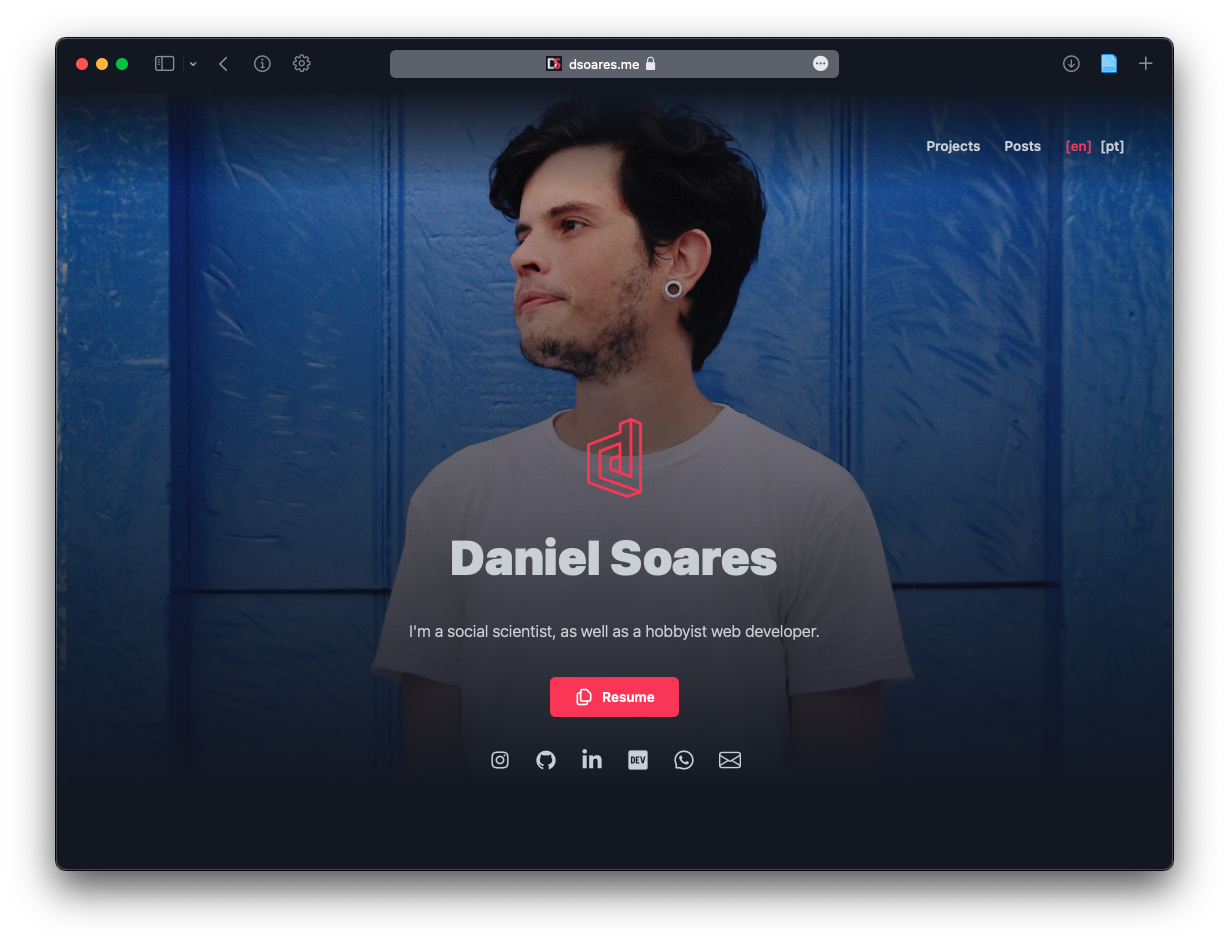
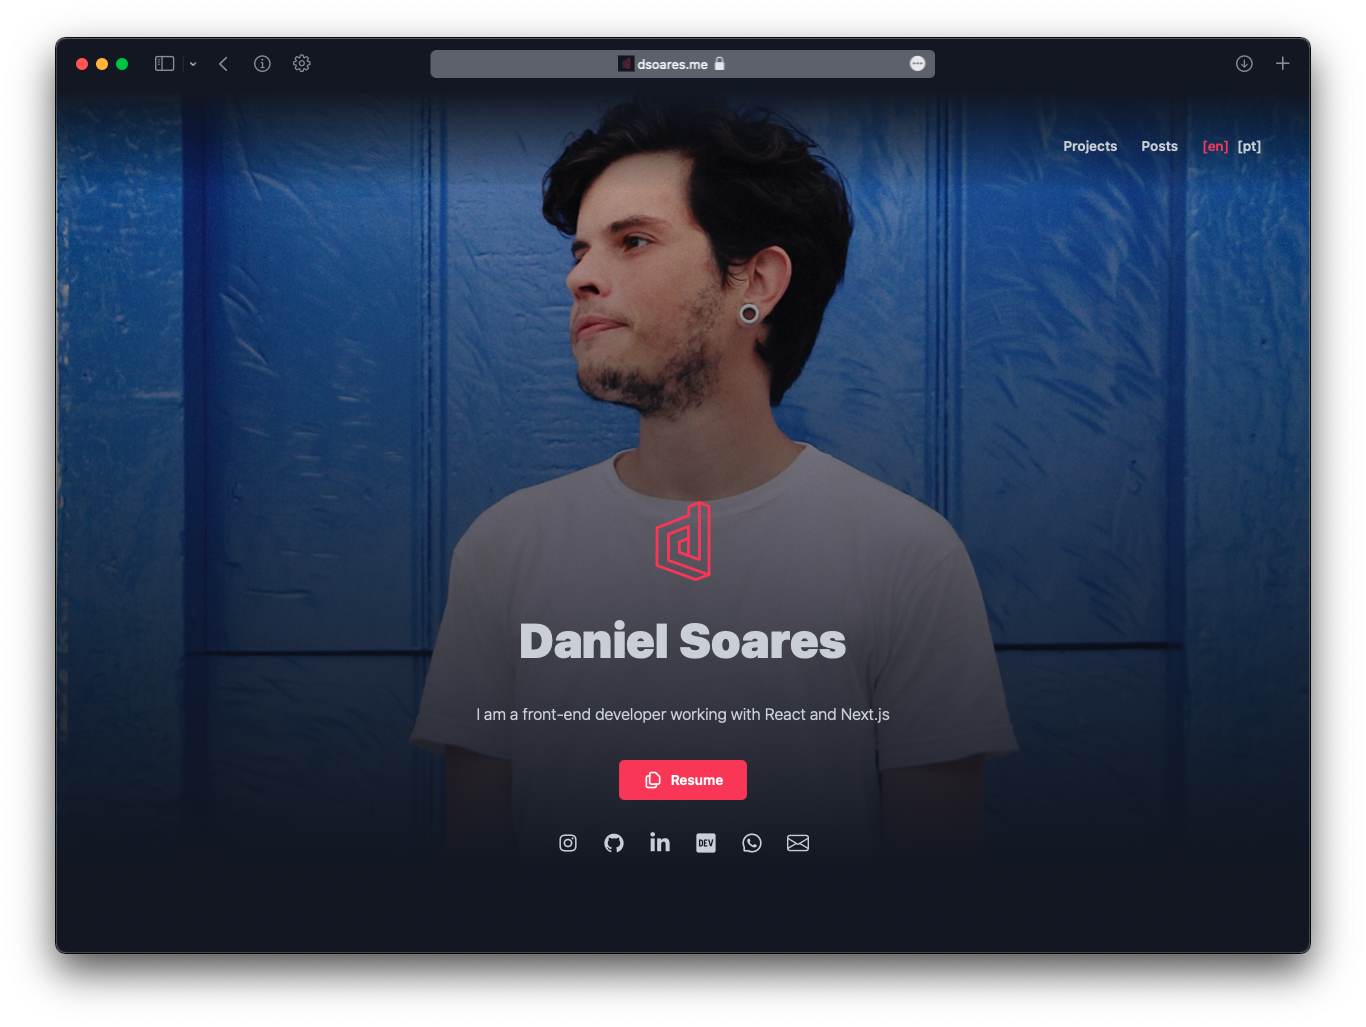
chore: update profile

diff --git a/src/i18n/pt/index.ts b/src/i18n/pt/index.ts
@@ -1,5 +1,5 @@
 export const pt = {
-  description: 'Eu sou um cientista social que tem, por hobby, desenvolver aplicações web.',
+  description: 'Eu sou um desenvolvedor front-end trabalhando com React e Next.js',
   nav: [
     {
       label: 'Projetos',

diff --git a/src/i18n/en/index.ts b/src/i18n/en/index.ts
@@ -1,5 +1,5 @@
 export const en = {
-  description: "I'm a social scientist, as well as a hobbyist web developer.",
+  description: 'I am a front-end developer working with React and Next.js',
   nav: [
     {
       label: 'Projects',
